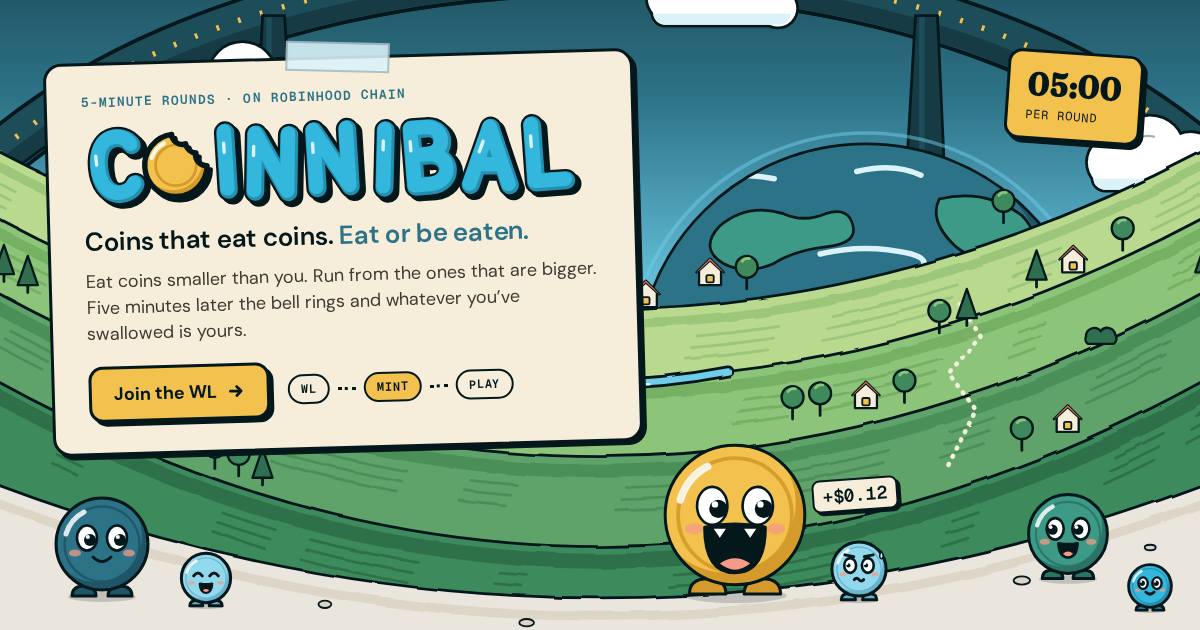
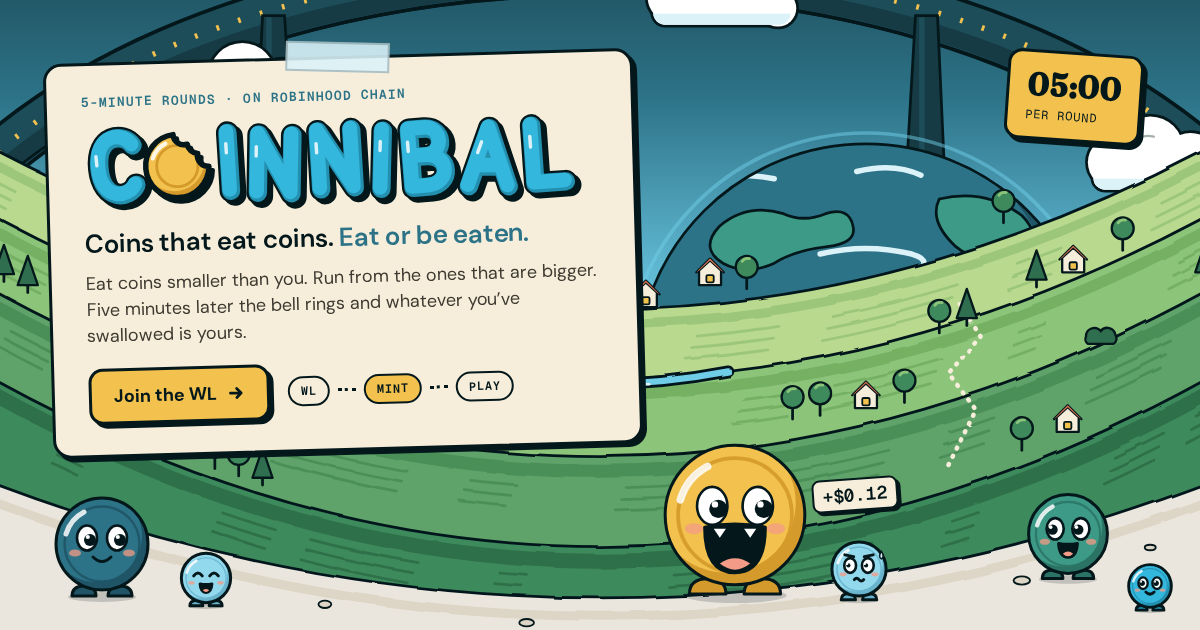
Coinnibal on coinnibal.fun: sign-ins and CORS for the new site, even wordmark spacing
- coinnibal.fun (and www) are always accepted as CORS origins, and a sign-in
  from them names that site, so the new domain works before the server's
  .env is edited. Any other Origin still gets PUBLIC_URL.
- Docs and examples: coinnibal.io -> coinnibal.fun (the domain bought).
- Wordmark: the gap between the second N and the I was 15 units against
  0-8 elsewhere; the last four letters move 10 left (WORD_W 664 -> 654).
  OG image regenerated.

Changed region(s): [[0.0925, 0.181, 0.4933, 0.3317], [0.0617, 0.3619, 0.4933, 0.5429], [0.0308, 0.573, 0.5242, 0.754]]

diff --git a/packages/shared/src/brand.ts b/packages/shared/src/brand.ts
@@ -5,8 +5,8 @@
  *
  * The domain and the X handle are configuration, not code: the site's origin is `PUBLIC_URL` (server) and
  * `VITE_PUBLIC_URL` (web build), the X handle is the admin setting (Admin, Settings) with `X_HANDLE` /
- * `VITE_X_HANDLE` as the default. The defaults below are the live ones until coinnibal.io and @coinnibal are
- * live (docs/OPERATIONS.md, "Moving to coinnibal.io").
+ * `VITE_X_HANDLE` as the default. The defaults below are the live ones until coinnibal.fun and @coinnibal are
+ * live (docs/OPERATIONS.md, "Moving to coinnibal.fun").
  */
 
 /** The product name. */
@@ -15,11 +15,25 @@ export const BRAND_NAME = 'Coinnibal';
 /** The one short brand line (simple English, a little playful). */
 export const BRAND_TAGLINE = 'Eat or be eaten.';
 
-/** The site's host when nothing is configured (the live domain until coinnibal.io is). */
+/** The site's host when nothing is configured (the live domain until coinnibal.fun is). */
 export const SITE_HOST_DEFAULT = 'elymum.io';
 
 /** `https://<SITE_HOST_DEFAULT>`. */
 export const SITE_URL_DEFAULT = `https://${SITE_HOST_DEFAULT}`;
+
+/**
+ * The brand's own site origins (coinnibal.fun, bought for the new name). A server whose `CORS_ORIGIN` is a list
+ * always accepts these too, so the site works there before the server's `.env` is edited.
+ */
+export const BRAND_SITE_ORIGINS: readonly string[] = ['https://coinnibal.fun', 'https://www.coinnibal.fun'];
+
+/** A `CORS_ORIGIN` value with the brand's site origins added (`*` and an unset value stay as they are). */
+export function withBrandOrigins(corsOrigin: string | undefined): string {
+  if (corsOrigin === undefined || corsOrigin.trim() === '' || corsOrigin.trim() === '*') return corsOrigin?.trim() || '*';
+  const list = corsOrigin.split(',').map((x) => x.trim().replace(/\/+$/, '')).filter(Boolean);
+  for (const o of BRAND_SITE_ORIGINS) if (!list.includes(o)) list.push(o);
+  return list.join(',');
+}
 
 /**
  * The NFT collection's name in the server's contract metadata (`contractURI`, what marketplaces show). The on-chain
@@ -29,7 +43,7 @@ export const SITE_URL_DEFAULT = `https://${SITE_HOST_DEFAULT}`;
 export const NFT_NAME = BRAND_NAME;
 
 /**
- * The host of a site URL (`https://coinnibal.io/` → `coinnibal.io`), else `fallback` (an unset, empty or bad value).
+ * The host of a site URL (`https://coinnibal.fun/` → `coinnibal.fun`), else `fallback` (an unset, empty or bad value).
  */
 export function siteHostOf(url: string | null | undefined, fallback: string = SITE_HOST_DEFAULT): string {
   if (!url) return fallback;

diff --git a/packages/shared/test/brand.test.ts b/packages/shared/test/brand.test.ts
@@ -1,5 +1,5 @@
 import { describe, expect, it } from 'vitest';
-import { BRAND_NAME, BRAND_TAGLINE, NFT_NAME, SITE_HOST_DEFAULT, SITE_URL_DEFAULT, SITE_X_HANDLE_DEFAULT, isReservedName, sanitizeName, siteHostOf } from '../src';
+import { BRAND_NAME, BRAND_TAGLINE, NFT_NAME, SITE_HOST_DEFAULT, SITE_URL_DEFAULT, SITE_X_HANDLE_DEFAULT, isReservedName, sanitizeName, siteHostOf, BRAND_SITE_ORIGINS, withBrandOrigins } from '../src';
 
 describe('brand', () => {
   it('is Coinnibal, with the live domain and X handle as defaults until the new ones are live', () => {
@@ -12,8 +12,8 @@ describe('brand', () => {
   });
 
   it('siteHostOf: the host of a configured origin, else the default', () => {
-    expect(siteHostOf('https://coinnibal.io')).toBe('coinnibal.io');
-    expect(siteHostOf('https://coinnibal.io/')).toBe('coinnibal.io');
+    expect(siteHostOf('https://coinnibal.fun')).toBe('coinnibal.fun');
+    expect(siteHostOf('https://coinnibal.fun/')).toBe('coinnibal.fun');
     expect(siteHostOf('http://localhost:5173')).toBe('localhost:5173');
     expect(siteHostOf(null)).toBe('elymum.io');
     expect(siteHostOf('')).toBe('elymum.io');
@@ -25,5 +25,12 @@ describe('brand', () => {
     for (const n of ['Coinnibal', 'COINNIBAL Support', 'c.o.i.n.n.i.b.a.l', 'C0innibal', 'Elymum', 'E1ymum']) expect(isReservedName(n)).toBe(true);
     expect(isReservedName('Coin Nibbler')).toBe(false);
     expect(sanitizeName('Coinnibal')).toBe('Coinie');
+  });
+
+  it('adds the brand site origins to a CORS list, and leaves * and unset alone', () => {
+    expect(withBrandOrigins(undefined)).toBe('*');
+    expect(withBrandOrigins('*')).toBe('*');
+    expect(withBrandOrigins('https://elymum.io/')).toBe(['https://elymum.io', ...BRAND_SITE_ORIGINS].join(','));
+    expect(withBrandOrigins('https://coinnibal.fun, https://elymum.io').split(',')).toEqual(['https://coinnibal.fun', 'https://elymum.io', 'https://www.coinnibal.fun']);
   });
 });

diff --git a/apps/server/src/http.ts b/apps/server/src/http.ts
@@ -2,7 +2,7 @@ import type { ShareService } from './site/shares';
 import { createReadStream, existsSync, statSync } from 'node:fs';
 import { createServer, type IncomingMessage, type Server, type ServerResponse } from 'node:http';
 import { extname, join, normalize, resolve, sep } from 'node:path';
-import { PROTOCOL_VERSION } from '@elymum/shared';
+import { BRAND_SITE_ORIGINS, PROTOCOL_VERSION } from '@elymum/shared';
 import { NonceLimitError, checksumAddress, type Auth, type SiweOrigin } from './auth';
 import type { DevFakeChainActions } from './chain/dev-fake';
 import type { ChainGateway } from './chain/types';
@@ -86,7 +86,10 @@ export function publicBaseUrl(cfg: ServerConfig, req: IncomingMessage, _trustPro
  * (`eth_chainId` of its RPC), or the configured `CHAIN_ID` while the chain is off.
  */
 export function siweOrigin(cfg: ServerConfig, req: IncomingMessage, _trustProxy: boolean | number, chainId: number | null): SiweOrigin {
-  const uri = publicBaseUrl(cfg, req);
+  // a sign-in from one of the brand's own sites (coinnibal.fun) names that site, so the wallet shows the page's own
+  // domain; every other request names PUBLIC_URL as before. The browser sets Origin, a page cannot choose it.
+  const origin = typeof req.headers.origin === 'string' ? req.headers.origin.replace(/\/+$/, '') : '';
+  const uri = BRAND_SITE_ORIGINS.includes(origin) ? origin : publicBaseUrl(cfg, req);
   return { domain: new URL(uri).host, uri, chainId: chainId ?? cfg.chain.chainId };
 }
 

diff --git a/apps/server/src/config.ts b/apps/server/src/config.ts
@@ -2,7 +2,7 @@ import { availableParallelism } from 'node:os';
 import { randomBytes } from 'node:crypto';
 import { mkdirSync, readFileSync, writeFileSync } from 'node:fs';
 import { join, resolve } from 'node:path';
-import { CAPACITY, NETWORKS, RULES, ROBINHOOD_CHAIN_ID, TOKEN_SYMBOL_DEFAULT, MINT_USD_CENTS_DEFAULT, configuredChainId, unsupportedChainMessage, isGameAccess, normalizeXHandle, SITE_URL_DEFAULT, type GameAccess } from '@elymum/shared';
+import { CAPACITY, NETWORKS, RULES, ROBINHOOD_CHAIN_ID, TOKEN_SYMBOL_DEFAULT, MINT_USD_CENTS_DEFAULT, configuredChainId, unsupportedChainMessage, isGameAccess, normalizeXHandle, SITE_URL_DEFAULT, withBrandOrigins, type GameAccess } from '@elymum/shared';
 import { GAS_PRICE_URL_DEFAULT } from '@elymum/sdk';
 import { getAddress, isAddress } from 'viem';
 import { DEFAULT_ART_STYLE, parseArtStyle, type ArtStyle } from './site/nft/render';
@@ -396,7 +396,7 @@ export function loadConfig(env: NodeJS.ProcessEnv = process.env): ServerConfig {
   return {
     port: int(env.PORT, 8787),
     host: env.HOST ?? '0.0.0.0',
-    corsOrigin: env.CORS_ORIGIN ?? '*',
+    corsOrigin: withBrandOrigins(env.CORS_ORIGIN),
     dataDir: resolve(env.DATA_DIR ?? 'data'),
     publicUrl: env.PUBLIC_URL?.trim() ? env.PUBLIC_URL.trim().replace(/\/+$/, '') : null,
     webDist: env.WEB_DIST ? resolve(env.WEB_DIST) : null,

diff --git a/apps/web/src/design/motifs/brandShapes.ts b/apps/web/src/design/motifs/brandShapes.ts
@@ -39,17 +39,17 @@ export const WORD_LETTERS: readonly BrandLetter[] = [
   // N
   { d: 'M16 94 V18 L60 94 V18', x: 288, rot: -2, dy: -1, shine: 'M8 34 v12' },
   // I
-  { d: 'M28 18 V94', x: 368, rot: 3, dy: 2, shine: 'M20 32 v12' },
+  { d: 'M28 18 V94', x: 358, rot: 3, dy: 2, shine: 'M20 32 v12' },
   // B
-  { d: 'M16 94 V18 H36 C62 18 62 54 36 54 H16 M36 54 C68 54 68 94 36 94 H16', x: 418, rot: -3, dy: 0, shine: 'M8 34 v12' },
+  { d: 'M16 94 V18 H36 C62 18 62 54 36 54 H16 M36 54 C68 54 68 94 36 94 H16', x: 408, rot: -3, dy: 0, shine: 'M8 34 v12' },
   // A
-  { d: 'M12 94 L38 18 L64 94 M24 68 H52', x: 498, rot: 2, dy: 2, shine: 'M18 50 l5 -14' },
+  { d: 'M12 94 L38 18 L64 94 M24 68 H52', x: 488, rot: 2, dy: 2, shine: 'M18 50 l5 -14' },
   // L
-  { d: 'M16 18 V94 H56', x: 578, rot: -2.5, dy: -1, shine: 'M8 32 v14' },
+  { d: 'M16 18 V94 H56', x: 568, rot: -2.5, dy: -1, shine: 'M8 32 v14' },
 ];
 
 /** The drawing box of the wordmark (letters, outline and shadow): x from -6, y from -4. */
-export const WORD_W = 664;
+export const WORD_W = 654;
 export const WORD_H = 128;
 /** The coin "O" is the bitten coin scaled to sit on the letters' 18..94 line. */
 export const WORD_COIN_SCALE = 0.9;

diff --git a/apps/server/test/auth.test.ts b/apps/server/test/auth.test.ts
@@ -130,6 +130,14 @@ describe('SIWE login message (EIP-4361)', () => {
     expect(siweOrigin(dev, req, false, 31337).chainId).toBe(31337);
   });
 
+  it('names the brand site (coinnibal.fun) for a sign-in from it, and only from that fixed list', () => {
+    const cfg = loadConfig({ PUBLIC_URL: 'https://elymum.io' } as NodeJS.ProcessEnv);
+    const from = (origin: string) => siweOrigin(cfg, { headers: { host: 'game.elymum.io', origin } } as never, false, 46630);
+    expect(from('https://coinnibal.fun')).toEqual({ domain: 'coinnibal.fun', uri: 'https://coinnibal.fun', chainId: 46630 });
+    expect(from('https://www.coinnibal.fun/').domain).toBe('www.coinnibal.fun');
+    for (const other of ['https://evil.example', 'http://coinnibal.fun', 'https://coinnibal.fun.evil.example']) expect(from(other).domain).toBe('elymum.io');
+  });
+
   it('never lets a request choose the SIWE domain outside development (Host / X-Forwarded-Host spoofing)', async () => {
     const auth = new Auth(Buffer.alloc(32, 1));
     const victim = testSigner();

diff --git a/apps/web/vite.config.ts b/apps/web/vite.config.ts
@@ -9,7 +9,7 @@ const gameServer = process.env.GAME_SERVER ?? 'http://127.0.0.1:8787';
 // index.html uses %VITE_PUBLIC_URL% for its absolute canonical / Open Graph URLs (they must be
 // absolute: crawlers need them, and Vite would try to bundle a relative og:image). Default: the
 // server's PUBLIC_URL, else the live public domain. Set VITE_PUBLIC_URL (or PUBLIC_URL) at build time:
-// moving the site to another domain (coinnibal.io) is only this variable (docs/OPERATIONS.md).
+// moving the site to another domain (coinnibal.fun) is only this variable (docs/OPERATIONS.md).
 const LIVE_URL = 'https://elymum.io';
 process.env.VITE_PUBLIC_URL = (process.env.VITE_PUBLIC_URL || process.env.PUBLIC_URL || LIVE_URL).replace(/\/+$/, '');
 // the project's X handle (no `@`) for index.html's twitter:site and the pages before the server's settings load

diff --git a/packages/shared/test/xlink.test.ts b/packages/shared/test/xlink.test.ts
@@ -55,7 +55,7 @@ describe('Link X helpers', () => {
     expect(text).toBe('Joining the coin party \u{1FA99} my code: NIBAL-7F3K9Q elymum.io');
     expect(text).toContain('NIBAL-7F3K9Q');
     expect(text).toContain('elymum.io');
-    expect(xLinkPostText('NIBAL-7F3K9Q', 'coinnibal.io').endsWith('coinnibal.io')).toBe(true);
+    expect(xLinkPostText('NIBAL-7F3K9Q', 'coinnibal.fun').endsWith('coinnibal.fun')).toBe(true);
     expect(xLinkPostText('NIBAL-7F3K9Q', 'localhost:5173').endsWith('localhost:5173')).toBe(true);
     expect(text.length).toBeLessThan(80);
   });

diff --git a/docs/OPERATIONS.md b/docs/OPERATIONS.md
@@ -306,7 +306,7 @@ transfer to it fails (a token that refuses that address), the whole batch revert
 `!!! chain: settle batches revert on the fee transfer`: change the fee wallet and the pending settlements go out
 by themselves.
 
-## The name: Coinnibal, and moving to coinnibal.io
+## The name: Coinnibal, and moving to coinnibal.fun
 
 The product is **Coinnibal** (a coin + a cannibal: coins that eat coins), its token **$NIBAL**. "Elymum" is the old
 name and stays as the **internal** name on purpose: the packages (`@elymum/*`), the contract names (`ElymumArena`,
@@ -334,22 +334,22 @@ Transitions handled in code: Link X codes are now `NIBAL-XXXXXX` and a post with
 same code still verifies (codes live 30 minutes); the sign-in message says "Sign in to Coinnibal." and a page or server
 from before the rename that uses the old line still signs in (the web and the server deploy apart).
 
-**Moving to coinnibal.io** (when the domain is bought). Keep elymum.io working throughout: the NFT's on-chain base URI
+**Moving to coinnibal.fun** (when the domain is bought). Keep elymum.io working throughout: the NFT's on-chain base URI
 and links already posted on X point at it.
 
-1. DNS: point `coinnibal.io` at Vercel (Project → Settings → Domains → add `coinnibal.io` and `www.coinnibal.io`).
-   Optionally add `game.coinnibal.io` → the VPS (an `A` record, as for `game.elymum.io` in deploy/vps/README.md).
-2. Vercel → Environment Variables: `VITE_PUBLIC_URL=https://coinnibal.io` (and `VITE_SERVER_URL=https://game.coinnibal.io`
+1. DNS: point `coinnibal.fun` at Vercel (Project → Settings → Domains → add `coinnibal.fun` and `www.coinnibal.fun`).
+   Optionally add `game.coinnibal.fun` → the VPS (an `A` record, as for `game.elymum.io` in deploy/vps/README.md).
+2. Vercel → Environment Variables: `VITE_PUBLIC_URL=https://coinnibal.fun` (and `VITE_SERVER_URL=https://game.coinnibal.fun`
    if you moved the game domain), then redeploy. index.html, robots.txt and sitemap.xml follow.
-3. VPS (`/opt/elymum/.env`): `PUBLIC_URL=https://coinnibal.io` and `CORS_ORIGIN=https://coinnibal.io,https://elymum.io`
+3. VPS (`/opt/elymum/.env`): `PUBLIC_URL=https://coinnibal.fun` and `CORS_ORIGIN=https://coinnibal.fun,https://elymum.io`
    (both while elymum.io still serves pages), then `elymum-compose up -d app`. With a new game domain also set
-   `GAME_DOMAIN=game.coinnibal.io` (Caddy gets its certificate) and update the two `game.elymum.io` rewrites in
+   `GAME_DOMAIN=game.coinnibal.fun` (Caddy gets its certificate) and update the two `game.elymum.io` rewrites in
    `vercel.json`.
-4. Make elymum.io redirect to coinnibal.io in Vercel (Domains → elymum.io → Redirect to coinnibal.io, 308) once step 3
+4. Make elymum.io redirect to coinnibal.fun in Vercel (Domains → elymum.io → Redirect to coinnibal.fun, 308) once step 3
    is live. Players sign in again once (SIWE binds the domain).
 5. NFT links: the metadata base URI is on chain. Either keep `elymum.io/api/nft/*` answering (the redirect keeps it
    working), or set the new one in Admin → Mint (`setBaseURI`) unless you froze it.
-6. Art: `BRAND_SITE=coinnibal.io node brand/generate.mjs x2-banner` for the X banner's "Testnet open" sticker.
+6. Art: `BRAND_SITE=coinnibal.fun node brand/generate.mjs x2-banner` for the X banner's "Testnet open" sticker.
    (No other image names a domain; share cards name `PUBLIC_URL`'s host by themselves.)
 
 **Moving the X handle to @coinnibal** (once the account is live).

diff --git a/docs/DEPLOY.md b/docs/DEPLOY.md
@@ -91,8 +91,8 @@ same (`chain.serverKey`). `GET /api/health` answers 503 with its reasons when so
 the break after an arena bell (no live stake then).
 
 **Domain.** The site is wherever `PUBLIC_URL` says (`https://elymum.io`; the web build's `VITE_PUBLIC_URL`). Nothing in
-the code or the art names a domain; moving to coinnibal.io is configuration only (OPERATIONS.md, "The name: Coinnibal,
-and moving to coinnibal.io"). Players sign in again on a new domain (SIWE binds the domain). NFT metadata URLs follow the NFT's base URI:
+the code or the art names a domain; moving to coinnibal.fun is configuration only (OPERATIONS.md, "The name: Coinnibal,
+and moving to coinnibal.fun"). Players sign in again on a new domain (SIWE binds the domain). NFT metadata URLs follow the NFT's base URI:
 update it with `setBaseURI` (Mint tab) unless you froze it.
 
 **Without Docker.** `pnpm install && pnpm -F @elymum/web build && pnpm -F @elymum/server build`, then run

diff --git a/README.md b/README.md
@@ -7,7 +7,7 @@ whatever you swallowed is paid out on chain.
 
 The game used to be called Elymum. The code keeps that as its internal name (`@elymum/*` packages,
 `ElymumArena` / `ElymumNFT`, env vars, storage keys); everything a player sees says Coinnibal. The domain and the X
-handle are configuration: see docs/OPERATIONS.md, "The name: Coinnibal, and moving to coinnibal.io".
+handle are configuration: see docs/OPERATIONS.md, "The name: Coinnibal, and moving to coinnibal.fun".
 
 The product flow is WL → Mint → Play: people apply for the whitelist, mint a Coinnibal NFT for
 $1 in ETH, and the game opens for holders. The money rules live in two Solidity contracts; the
